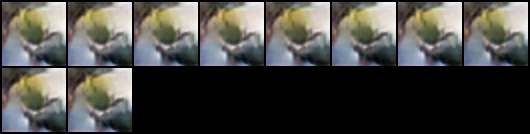
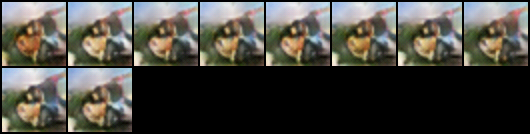
conditional 400 fixed noise generation

diff --git a/dcgan/loading_scripts/compare_from_seed.py b/dcgan/loading_scripts/compare_from_seed.py
@@ -33,8 +33,8 @@ parser.add_argument('--lr', type=float, default=0.0002, help='learning rate, def
 parser.add_argument('--beta1', type=float, default=0.5, help='beta1 for adam. default=0.5')
 parser.add_argument('--cuda', action='store_true', help='enables cuda')
 parser.add_argument('--ngpu', type=int, default=1, help='number of GPUs to use')
-parser.add_argument('--netG_cond', default='../cifar/conditional/netG_epoch_19.m', help="path to netG (to continue training)")
-parser.add_argument('--netG', default='../cifar/baseline_normalized/netG_epoch_19.m', help="path to netG (to continue training)")
+parser.add_argument('--netG_cond', default='../cifar/conditional_400_3/netG_epoch_19.m', help="path to netG (to continue training)")
+parser.add_argument('--netG', default='../cifar/baseline_normalized_40/netG_epoch_19.m', help="path to netG (to continue training)")
 parser.add_argument('--netD', default='', help="path to netD (to continue training)")
 parser.add_argument('--outf', default='./', help='folder to output images and model checkpoints')
 parser.add_argument('--manualSeed', type=int, help='manual seed')
